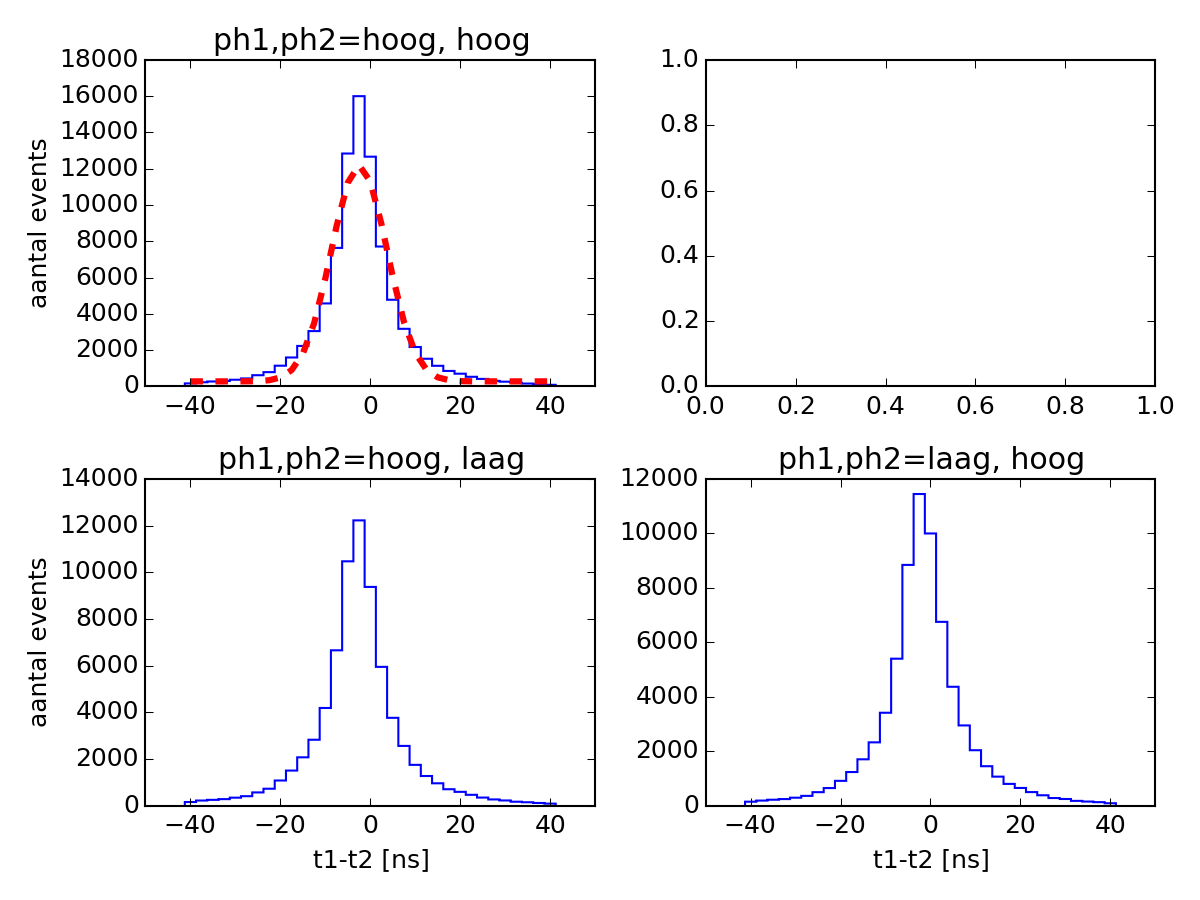
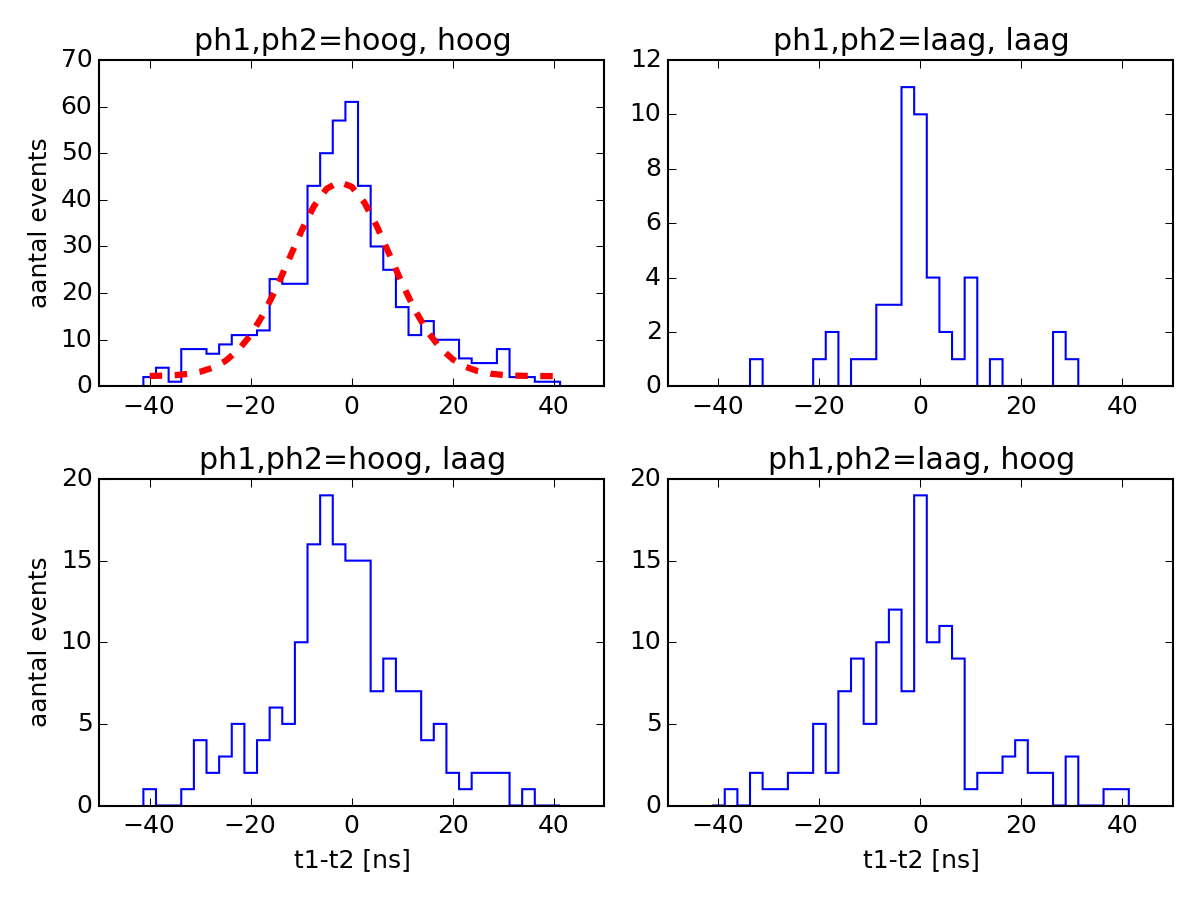
random changes at end of 2014-2015
Random undocumented changes

diff --git a/pennink_figures/pennink_fokkema.py b/pennink_figures/pennink_fokkema.py
@@ -4,6 +4,12 @@ Read data from station 501 and plot t1-t2 histogram
 Goal: recreate graphs form D.Pennink 2010
 t1-t2 from station 501, FULL YEAR 2010
 
+Remark from D.Fokkema: select "1,2" for low,low (--> 3,4 high, high)
+but then use 3,4 for high, high etc
+
+Goal: controleer of de spreiding ook in "zelfde" events zit
+Antwoord: Ja, dit is zo. Ook in events zijn fotonen later.
+
 ph1 > TRIGGER = charged particle
 ph1 < TRIGGER = gamma
 
@@ -81,13 +87,19 @@ def do_it():
 
     bins2ns5 = np.arange(-41.25, 41.26, 2.5)
 
-    dt_all = (t1-t2).compress((t1 > 0) & (t2 > 0) & ((t1-t2) < 50.))
-    dt_t1hoog_t2laag = (t1-t2).compress((t1 > 0) & (t2 > 0) & ((t1-t2) < 50.)
-                                        & (ph2 < LOW_PH) & (ph1 > HIGH_PH))
-    dt_t1laag_t2hoog = (t1-t2).compress((t1 > 0) & (t2 > 0) & ((t1-t2) < 50.)
-                                        & (ph2 > HIGH_PH) & (ph1 < LOW_PH))
-    dt_t1laag_t2laag = (t1-t2).compress((t1 > 0) & (t2 > 0) & ((t1-t2) < 50.)
-                                        & (ph1 < LOW_PH) & (ph2 < LOW_PH))
+    # 3,4 hoog == 1,2 laag
+    selectie_1laag_2laag = ((t1 > 0) & (t2 > 0) & ((t1-t2) < 50.)
+                                    & (ph1 < LOW_PH) & (ph2 < LOW_PH))
+
+    t1 = t1.compress(selectie_1laag_2laag)
+    t2 = t2.compress(selectie_1laag_2laag)
+    t3 = t3.compress(selectie_1laag_2laag)
+    t4 = t4.compress(selectie_1laag_2laag)
+
+    ph1 = ph1.compress(selectie_1laag_2laag)
+    ph2 = ph2.compress(selectie_1laag_2laag)
+    ph3 = ph3.compress(selectie_1laag_2laag)
+    ph4 = ph4.compress(selectie_1laag_2laag)
 
     grafiek = plt.figure()
     grafiek11 = grafiek.add_subplot(221)
@@ -95,10 +107,15 @@ def do_it():
     grafiek21 = grafiek.add_subplot(223)
     grafiek22 = grafiek.add_subplot(224)
 
+    dt_11 = t4-t3
+    dt_12 = t2-t1
+    dt_21 = t3-t1
+    dt_22 = t4-t2
+
 
     if grafiek11:
-        print "All events", dt_all.size
-        n1, bins1, blaat1 = grafiek11.hist(dt_all, bins=bins2ns5, histtype='step')
+        print "All events", dt_11.size
+        n1, bins1, blaat1 = grafiek11.hist(dt_11, bins=bins2ns5, histtype='step')
         sigma_list = np.sqrt(n1)
         c, fitx, fity = gauss_fit_histogram.gauss_fit_histogram(n1, bins1, sigma=sigma_list, initialguess = [100.,10., 10., 0.], verbose=False)
         mu = c[1]
@@ -113,8 +130,8 @@ def do_it():
 
 
     if grafiek12:  # bovenste rij, laag laag met fit
-        print "ph1 laag, ph2 laag", dt_t1laag_t2laag.size
-        n1, bins1, blaat1 = grafiek12.hist(dt_t1laag_t2laag, bins=bins2ns5, histtype='step')
+        print "ph1 laag, ph2 laag", dt_12.size
+        n1, bins1, blaat1 = grafiek12.hist(dt_12, bins=bins2ns5, histtype='step')
 
         sigma_list = np.sqrt(n1)
 
@@ -130,15 +147,15 @@ def do_it():
 
 
     if grafiek21:  # onderste rij, scheve verdelingen, zonder fit
-        print "ph1 hoog, ph2 laag", dt_t1hoog_t2laag.size
-        n1, bins1, blaat1 = grafiek21.hist(dt_t1hoog_t2laag, bins=bins2ns5, histtype='step')
+        print "ph1 hoog, ph2 laag", dt_21.size
+        n1, bins1, blaat1 = grafiek21.hist(dt_21, bins=bins2ns5, histtype='step')
         grafiek21.set_title('ph1,ph2=hoog, laag')
         grafiek21.set_xlabel('t1-t2 [ns]')
         grafiek21.set_ylabel('aantal events')
 
     if grafiek22:
-        print "ph1 laag, ph2 hoog", dt_t1laag_t2hoog.size
-        n1, bins1, blaat1 = grafiek22.hist(dt_t1laag_t2hoog, bins=bins2ns5, histtype='step')
+        print "ph1 laag, ph2 hoog", dt_22.size
+        n1, bins1, blaat1 = grafiek22.hist(dt_22, bins=bins2ns5, histtype='step')
         grafiek22.set_title('ph1,ph2=laag, hoog')
         grafiek22.set_xlabel('t1-t2 [ns]')
         #grafiek22.set_ylabel('aantal events')

diff --git a/pennink_figures/events.py b/pennink_figures/events.py
@@ -1,0 +1,136 @@
+"""
+26 juni 2015
+
+Welke type events zitten in de pennink selectie:
+
+hhHH laag laag | hoog hoog
+hhLH laag laag | laag hoog
+hhHL laag laag | hoog laag
+hhLL laag laag | laag laag
+
+ph1 > HIGH_PH = charged particle
+ph1 < LOW_PH = gamma
+
+"""
+
+import gauss_fit_histogram
+import datetime
+import tables
+import sapphire.esd
+import numpy as np
+import matplotlib.pyplot as plt
+import os.path
+
+
+XKCD = False
+
+STATION = 501
+STATIONS = [STATION]
+START = datetime.datetime(2010, 4, 1)
+END = datetime.datetime(2010, 5, 1)
+FILENAME = 'sorted.h5'
+
+#
+# Pennink, 2010 p32 specifies these cutoff ADC counts
+# >200 ADC count = charged particle
+# <120 ADC counts = gamma
+# These values are consistent with a pulseheight histogram
+#
+HIGH_PH = 200
+LOW_PH = 120
+
+
+#
+# Read event data from the ESD
+#  store in table `/sSTATION' for example: /s501
+#
+def create_new_event_file(filename, stations, start, end):
+
+    print  "creating file: ", filename
+    data = tables.open_file(filename, 'w')
+
+    print "reading from the ESD"
+    for station in stations:
+        print "Now reading station %d" % station
+        sapphire.esd.download_data(data, '/s%d' % station, station, START, END)
+
+    return data
+
+
+def do_it():
+
+    if 'data' not in globals():
+        print "%s not in memory yet " % FILENAME
+        if os.path.exists(FILENAME):
+            print "%s exists. Opening." % FILENAME
+            data = tables.open_file(FILENAME, 'a')
+        else:
+            print "%s does not exist. Trying to read from ESD"
+            data = create_new_event_file(FILENAME, STATIONS, START, END)
+    else:
+        print "data already in globals."
+
+    events = data.root.s501.events
+
+    t1 = events.col('t1')
+    t2 = events.col('t2')
+    t3 = events.col('t3')
+    t4 = events.col('t4')
+
+    ph = events.col('pulseheights')
+    ph1 = ph[:, 0]
+    ph2 = ph[:, 1]
+    ph3 = ph[:, 2]
+    ph4 = ph[:, 3]
+
+    bins2ns5 = np.arange(-41.25, 41.26, 2.5)
+
+    # 3,4 hoog == 1,2 laag
+    selectie_1laag_2laag = ((t1 > 0) & (t2 > 0) & ((t1-t2) < 50.)
+                                    & (ph1 < LOW_PH) & (ph2 < LOW_PH))
+
+    t1 = t1.compress(selectie_1laag_2laag)
+    t2 = t2.compress(selectie_1laag_2laag)
+    t3 = t3.compress(selectie_1laag_2laag)
+    t4 = t4.compress(selectie_1laag_2laag)
+
+    ph1 = ph1.compress(selectie_1laag_2laag)
+    ph2 = ph2.compress(selectie_1laag_2laag)
+    ph3 = ph3.compress(selectie_1laag_2laag)
+    ph4 = ph4.compress(selectie_1laag_2laag)
+
+    """
+    plt.figure()
+    plt.hist(ph1, bins=np.arange(0,400,10.), histtype='step')
+    plt.hist(ph2, bins=np.arange(0,400,10.), histtype='step')
+    plt.hist(ph3, bins=np.arange(0,400,10.), histtype='step')
+    plt.hist(ph4, bins=np.arange(0,400,10.), histtype='step')
+    plt.show()
+    """
+
+    timestamps = events.col('timestamp')
+    nanoseconds = events.col('nanoseconds')
+    timestamps = timestamps.compress(selectie_1laag_2laag)
+    nanoseconds = nanoseconds.compress(selectie_1laag_2laag)
+
+    print "number of events (llXX): ", timestamps.size
+    print "aantal niet llHH (en dus 3x laag): ", timestamps.compress((ph3 < LOW_PH) & (ph4 < LOW_PH)).size
+
+    """
+    for timestamp, ns in zip(timestamps, nanoseconds):
+
+        query = '(timestamp == %s) & (nanoseconds == %s) ' % (timestamp, ns)
+        print timestamp, ns
+        #print query
+        print events.read_where(query)[0][4]
+    """
+
+if __name__=='__main__':
+
+    if XKCD:
+        print "plotting everything in xkcd style :-p"
+        with plt.xkcd():
+            do_it()
+    else:
+        do_it()
+        # grafiek21.rcdefaults()   # reset matplotlib defaults

diff --git a/sim/sim.py b/sim/sim.py
@@ -13,11 +13,11 @@ FILENAME = 'data.txt'
 N = int(2e6)
 
 # events far from the core have low lepton detection probability
-LEPTON_DETECTION_PROBABILITY = 0.50 # based on particle density in shower
-PHOTON_DETECTION_PROBABILITY = 0.05 # based on scinitlator interaction
-NUMBER_OF_PHOTONS = 5 # density photons = 10* density leptons
-DELTA_TIME_PHOTONS = 10 # must fit in "shower pancake"
-DELTA_TIME_LEPTONS = 10 # ns ref fig 2.3 Fokkema2012
+LEPTON_DETECTION_PROBABILITY = 0.80 # based on particle density in shower
+PHOTON_DETECTION_PROBABILITY = 0.04 # based on scinitlator interaction
+NUMBER_OF_PHOTONS = 10  # minder fotonen want convolutie van fotonen bij elkaar
+DELTA_TIME_PHOTONS = 5 # must fit in "shower pancake"
+DELTA_TIME_LEPTONS = 5 # ns ref fig 2.3 Fokkema2012
 
 def detect_lepton():
 
